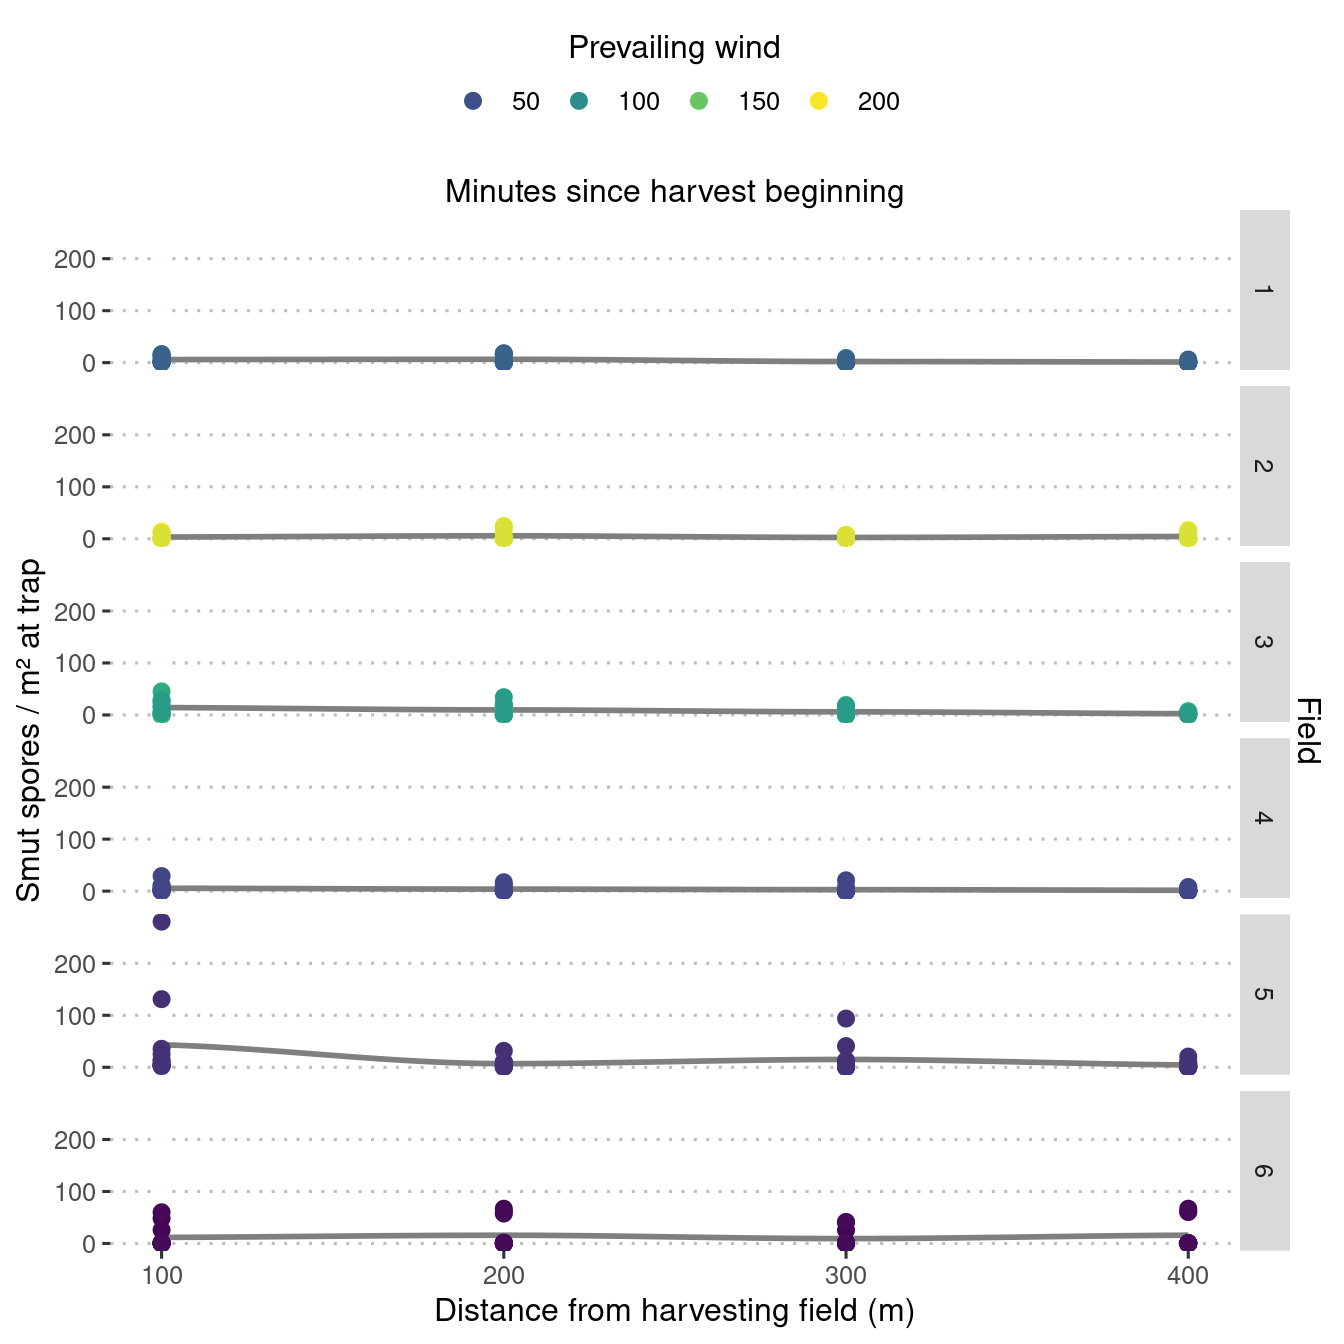
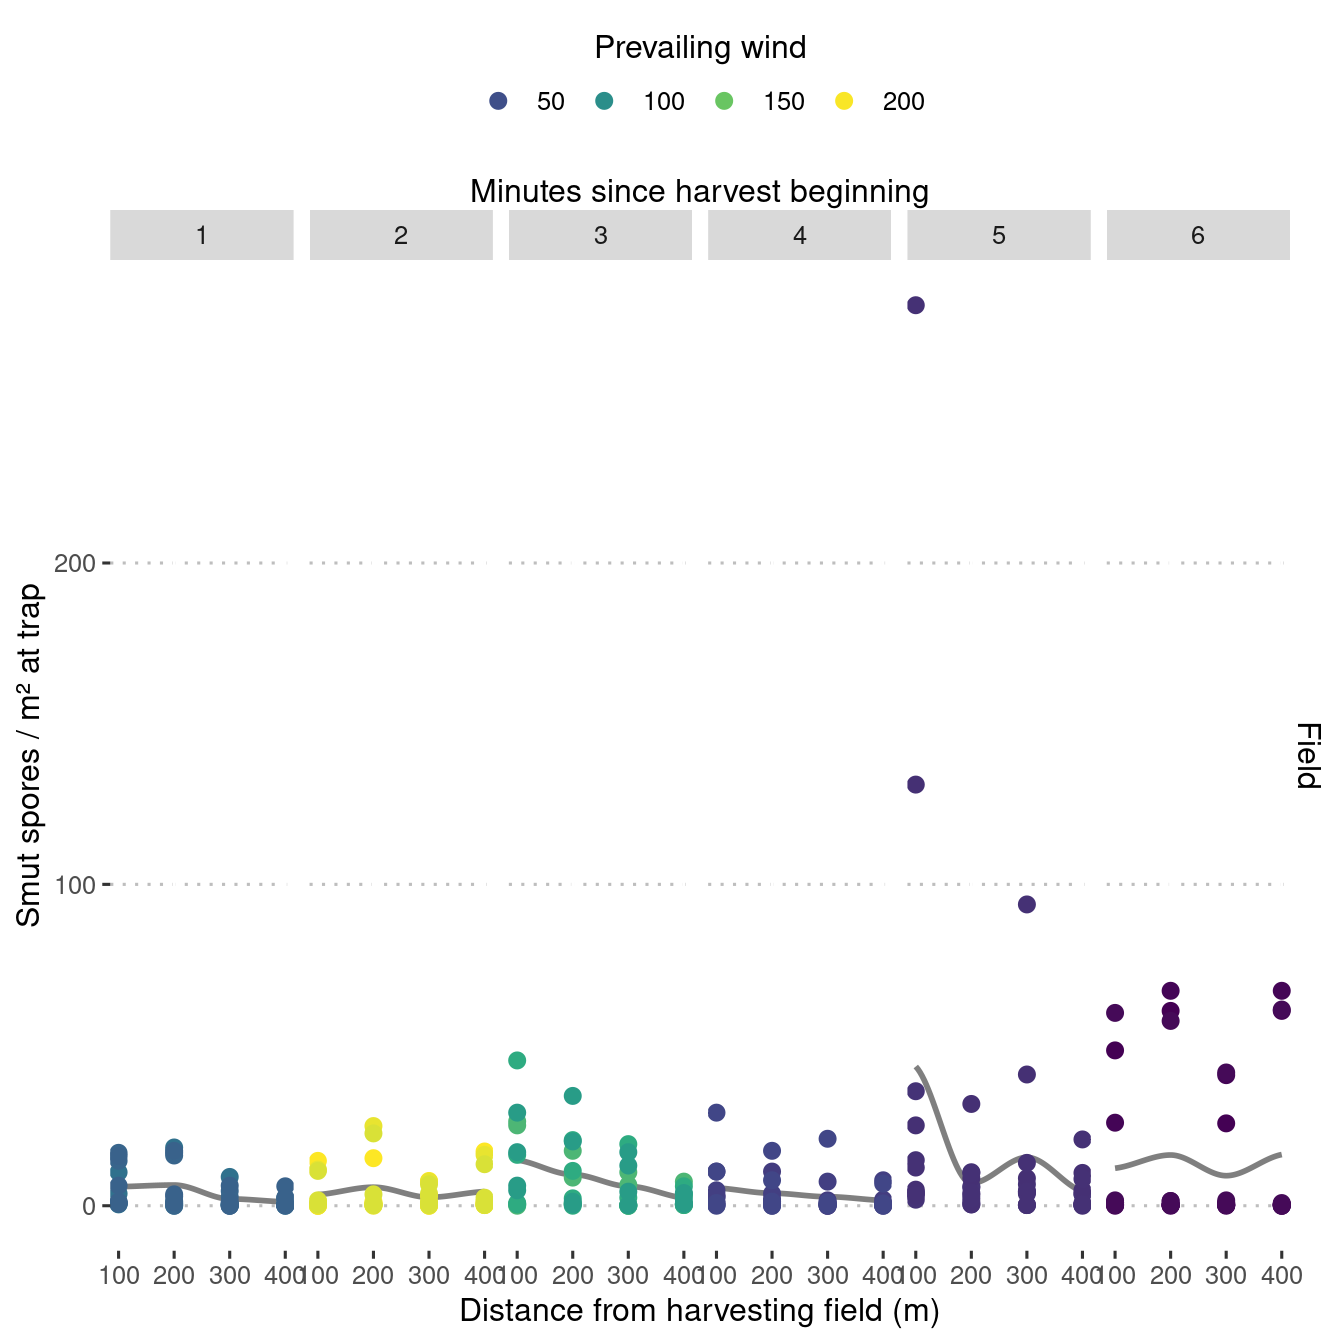
model update and chisquare test added

diff --git a/data_viz.html b/data_viz.html
@@ -426,12 +426,9 @@ load(here(&quot;data/mod_dat.Rdata&quot;))</code></pre>
                 formula = y ~ s(x, bs = &quot;cs&quot;, k = 3)) +
   labs(y = expression(Spores/cm^{2}),
        x = &quot;Distance (m)&quot;) +
-  facet_grid(time_slice ~ .)
+  facet_grid( .~ time_slice)
 spore_dot_density_by_distance</code></pre>
 <p><img src="data_viz_files/figure-html/spore-dot-density-by-distance-1.png" width="672" /></p>
-<p>(Alternative plot - we should choose one)</p>
-<pre class="r"><code>spore_dot_density_by_distance +  facet_grid( .~ time_slice)</code></pre>
-<p><img src="data_viz_files/figure-html/spore-dot-density-by-distancem%20alternative%20B-1.png" width="672" /></p>
 <p>Create a violin plot showing spore distribution at the four distances.</p>
 <pre class="r"><code>ggplot(mod_dat, aes(x = as.factor(distance_m), y = spore_cm2)) +
   geom_violin() +
@@ -574,7 +571,7 @@ wind_rose +
   ggplot(aes(distance_m, spore_cm2, col = wind_degrees)) +
   geom_smooth(col=&quot;grey50&quot;, se = FALSE) +
   geom_point(size = 2.5) +
-  facet_grid(field~.) +
+  facet_grid(.~field)+  
   scale_x_continuous(
     sec.axis = sec_axis(
       ~ . ,
@@ -600,9 +597,6 @@ wind_rose +
                                title.hjust = 0.5))
 smoothed_dispersal</code></pre>
 <p><img src="data_viz_files/figure-html/smoothed-dispersal-1.png" width="672" /></p>
-<p>(Alternative plot - we should choose one)</p>
-<pre class="r"><code>smoothed_dispersal + facet_grid(.~field)</code></pre>
-<p><img src="data_viz_files/figure-html/unnamed-chunk-3-1.png" width="672" /></p>
 <pre class="r"><code>ggsave(
   last_plot(),
   file = &quot;plots/spore_gradient.png&quot;,
@@ -655,6 +649,17 @@ smoothed_dispersal</code></pre>
   dpi = 300,
   scale = 1.5
 )</code></pre>
+<pre class="r"><code>dat_spore_type %&gt;% 
+  group_by(meter, spore_nuclei) %&gt;%
+  summarise(n = sum(count), .groups = &#39;drop&#39;) %&gt;% 
+  spread(spore_nuclei, n) %&gt;% 
+  column_to_rownames(&#39;meter&#39;) %&gt;% 
+  chisq.test() </code></pre>
+<pre><code>## 
+##  Pearson&#39;s Chi-squared test
+## 
+## data:  .
+## X-squared = 20.656, df = 16, p-value = 0.1921</code></pre>
 </div>
 <div id="spore-size" class="section level2">
 <h2>Spore size</h2>
@@ -669,26 +674,21 @@ smoothed_dispersal</code></pre>
 ## 4 45                1  18.3  21.2
 ## 5 44                1  17.5  20.0
 ## 6 46                1  18.1  18.1</code></pre>
-<pre class="r"><code>library(ggridges)
-dat_spore_size %&gt;%
+<pre class="r"><code>med_spore_size &lt;- dat_spore_size %&gt;%
   filter(image_id != 34) %&gt;%
   mutate(d_mean = (d1 + d2) / 2) %&gt;%
-  ggplot(aes(x = d_mean, y = factor(spore_type))) +
-  geom_density_ridges(
-    aes(stat = &quot;density&quot;),
-    alpha = 0.5,
-    jittered_points = TRUE,
-    scale = 0.5,
-    rel_min_height = 0.01,
-    point_shape = &quot;|&quot;,
-    point_size = 1,
-    size = 0.25,
-    position = position_points_jitter(height = 0)
-  ) +
+  group_by(spore_type) %&gt;%
+  summarize(median=median(d_mean))
+
+dat_spore_size %&gt;%
+  filter(image_id != 34) %&gt;%
+  mutate(d_mean = (d1 + d2) / 2) %&gt;% 
+  ggplot(aes(x=d_mean)) + 
+  geom_density(aes(fill=factor(spore_type)), size=.2, alpha=.4) +
+  geom_vline(data = med_spore_size, aes(xintercept = median), size=.2)+
   labs(x = expression(paste(&quot;Mean diameter (&quot;, mu, m, &quot;)&quot;)),
-       y = &quot;Spore type&quot;,
-       fill = &quot;&quot;) +
-  guides(fill = &quot;none&quot;)</code></pre>
+       y = &quot;Density&quot;,
+       fill = &quot;Spore type&quot;) </code></pre>
 <p><img src="data_viz_files/figure-html/spore-size-ridges-1.png" width="672" /></p>
 <pre class="r"><code>ggsave(
   last_plot(),

diff --git a/gam_model.html b/gam_model.html
@@ -490,9 +490,9 @@ m1</code></pre>
 ## 
 ##                    k&#39;     edf k-index p-value  
 ## s(y,x)         19.000   7.457    1.07   1.000  
-## s(time_slice)   2.000   0.978    0.90   0.230  
-## s(degree_dif)  71.000   5.622    0.85   0.035 *
-## s(distance_m)   3.000   0.276    1.01   0.905  
+## s(time_slice)   2.000   0.978    0.90   0.235  
+## s(degree_dif)  71.000   5.622    0.85   0.065 .
+## s(distance_m)   3.000   0.276    1.01   0.880  
 ## s(field,xy)   192.000  65.088      NA      NA  
 ## ---
 ## Signif. codes:  0 &#39;***&#39; 0.001 &#39;**&#39; 0.01 &#39;*&#39; 0.05 &#39;.&#39; 0.1 &#39; &#39; 1</code></pre>
@@ -548,7 +548,7 @@ newd &lt;- expand_grid(
   time_slice = c(90, 180, 270),
   degree_dif = 1:360,
   distance_m = dist,
-  wind_speed = 0:30,
+  wind_speed = seq(0,30,5),
   x = dist,
   y = dist,
   xy = paste(dist, -dist),
